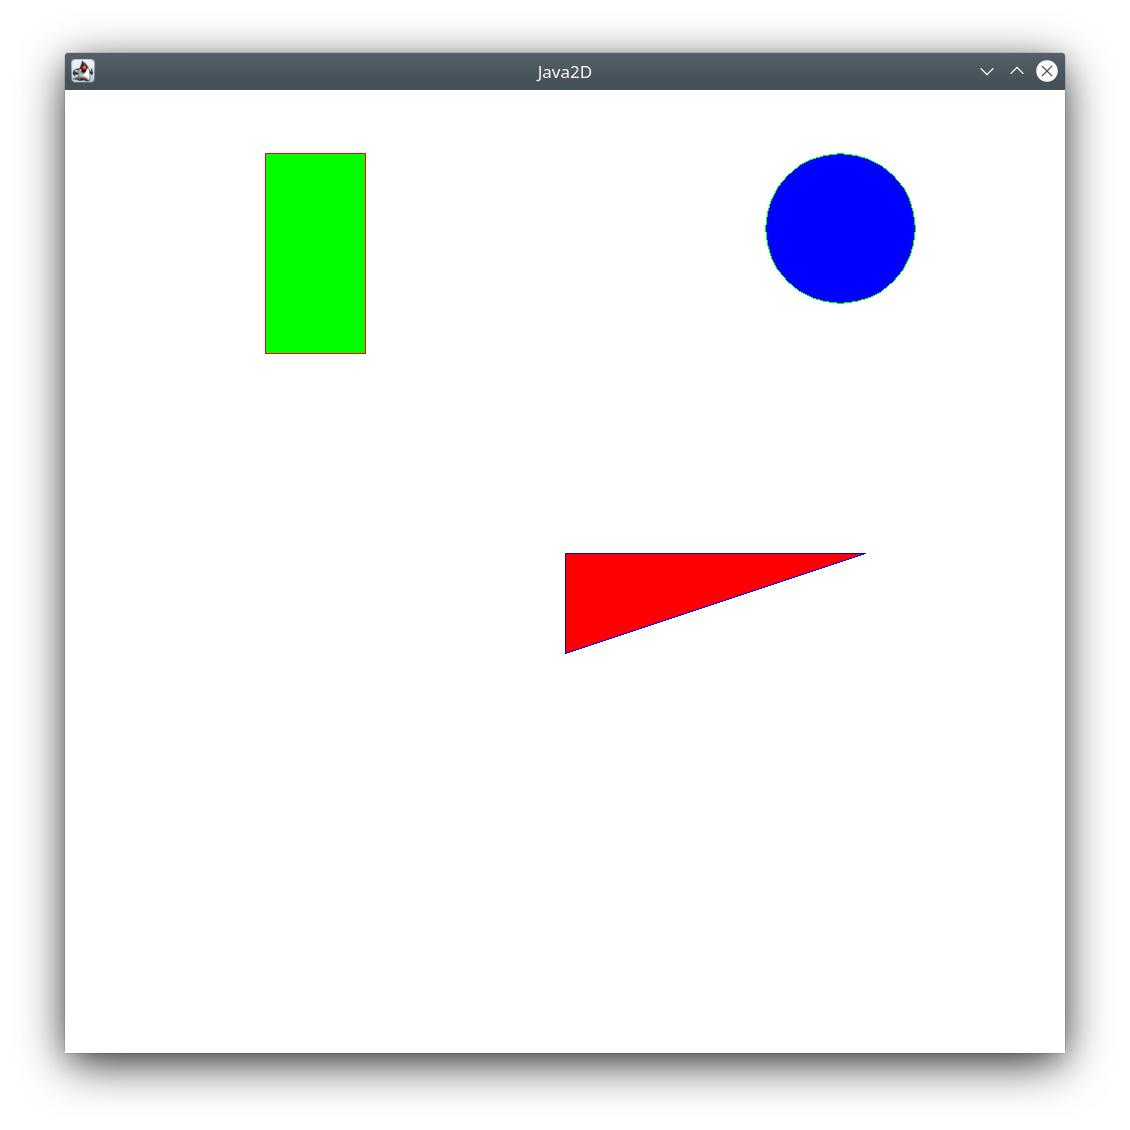
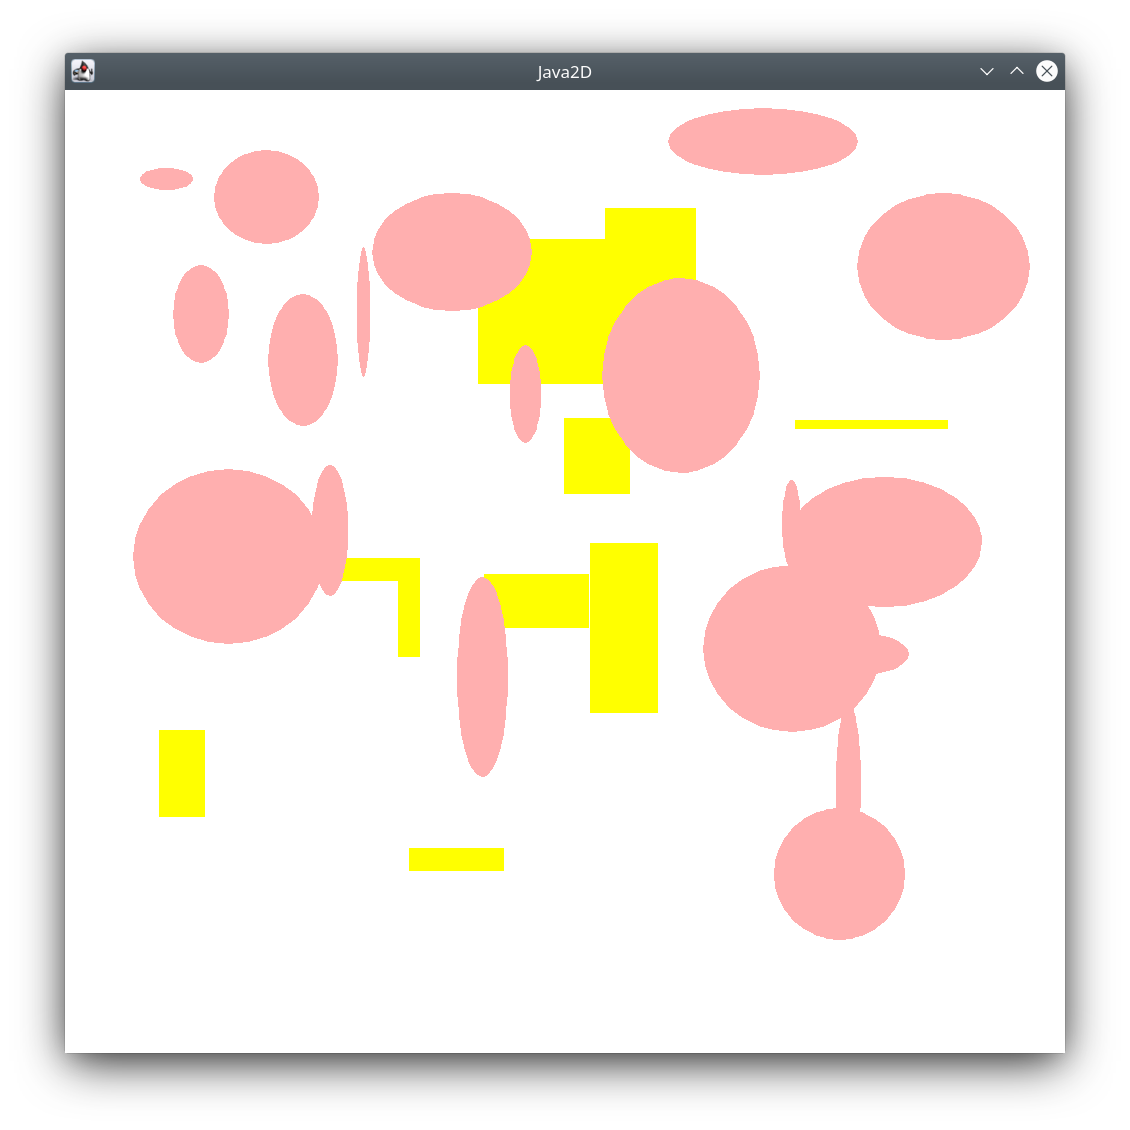
Exercício 5.1

diff --git a/03-Class/3-1/App.java b/03-Class/3-1/App.java
@@ -4,6 +4,8 @@ import java.awt.Graphics;
 import java.awt.Graphics2D;
 import java.awt.event.*;
 import javax.swing.*;
+import java.util.ArrayList;
+import java.util.Random;
 
 public class App {
     public static void main (String[] args) {
@@ -12,7 +14,20 @@ public class App {
 }
 
 class Hello2DFrame extends JFrame {
+	ArrayList<Rectangle> rectangleList;
+	ArrayList<Ellipse> ellipseList;
+
     public Hello2DFrame () {
+		Random rand = new Random();
+
+        this.setTitle("Java2D");
+        this.setSize(1000, 1000);
+        this.setVisible(true);
+		this.getContentPane().setBackground(Color.white);
+
+		this.rectangleList = new ArrayList<Rectangle>();
+		this.ellipseList = new ArrayList<Ellipse>();
+
         this.addWindowListener (
             new WindowAdapter() {
                 public void windowClosing (WindowEvent e) {
@@ -21,22 +36,41 @@ class Hello2DFrame extends JFrame {
             }
         );
 
-        this.setTitle("Java2D");
-        this.setSize(1000, 1000);
-        this.setVisible(true);
-		this.getContentPane().setBackground(Color.white);
+		this.addKeyListener (
+			new KeyAdapter() {
+				public void keyPressed (KeyEvent evt) {
+					if (evt.getKeyChar() == 'e') {
+						int x = rand.nextInt(800);
+						int y = rand.nextInt(800);
+						int w = rand.nextInt(200);
+						int h = rand.nextInt(200);
+
+						ellipseList.add(new Ellipse(x, y, w, h, Color.pink, Color.pink));
+						repaint();
+					} 
+
+					if (evt.getKeyChar() == 'r') {
+						int x = rand.nextInt(800);
+						int y = rand.nextInt(800);
+						int w = rand.nextInt(200);
+						int h = rand.nextInt(200);
+
+						rectangleList.add(new Rectangle(x, y, w, h, Color.yellow, Color.yellow));
+						repaint();
+					} 
+				}
+			}
+		);
     }
 
     public void paint (Graphics g) {
         super.paint(g);
         Graphics2D g2d = (Graphics2D) g;
 
-		Rectangle rectangle = new Rectangle(200, 100, 100, 200, Color.red, Color.green);
-		Ellipse ellipse = new Ellipse(700, 100, 150, 150, Color.green, Color.blue);
-		Triangle triangle = new Triangle(500, 500, 300, 100, Color.blue, Color.red);
+		for (Rectangle rectangle : this.rectangleList)
+			rectangle.paint(g2d);
 
-		rectangle.paint(g2d);
-		ellipse.paint(g2d);
-		triangle.paint(g2d);
+		for (Ellipse ellipse : this.ellipseList)
+			ellipse.paint(g2d);
     }
 }
